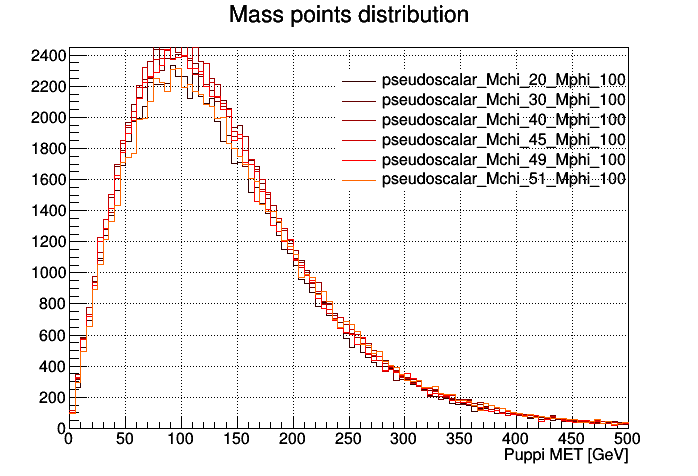
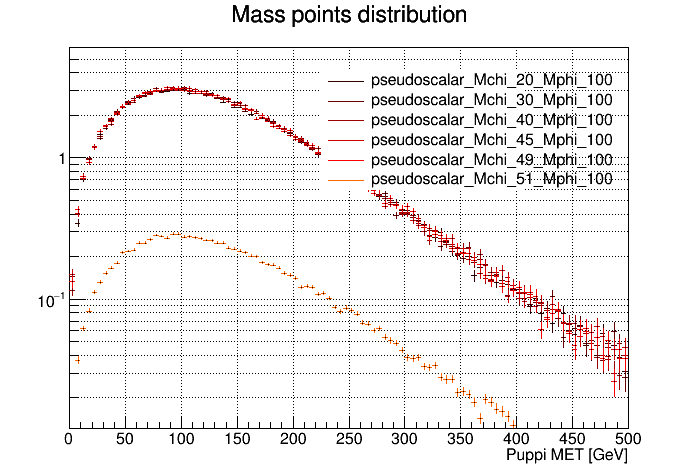
First mT attempt

diff --git a/neuralNetwork/createTrees.py b/neuralNetwork/createTrees.py
@@ -173,6 +173,8 @@ def createTree(inputDir, outputDir, baseDir, filename, firstEvent, lastEvent, sp
 
     totalET = array("f", [0.])
     outputTree.Branch("totalET", totalET, "totalET/F")
+    massT = array("f", [0.]) #New variable by Pablo
+    outputTree.Branch("massT", massT, "massT/F")
     costhetall = array("f", [0.])
     outputTree.Branch("costhetall", costhetall, "costhetall/F")
     costhetal1b1 = array("f", [0.])
@@ -427,6 +429,20 @@ def createTree(inputDir, outputDir, baseDir, filename, firstEvent, lastEvent, sp
         #Variables bases on DESY's AN2016-240-v10
         if recoWorked:
             totalET[0] = ev.PuppiMET_sumEt + bestReconstructedKinematic.Tb1.Pt() + bestReconstructedKinematic.Tb2.Pt() + bestReconstructedKinematic.Tlep1.Pt() + bestReconstructedKinematic.Tlep2.Pt()
+
+            #massT is defined as the mass of the phi component (eta = 0) of the TLorentzVector of the event
+            TMETEta0 = bestReconstructedKinematic.TMET
+            TMETEta0.SetPtEtaPhiE(TMETEta0.Pt(), 0, TMETEta0.Phi(), TMETEta0.E())
+            Tb1Eta0 = bestReconstructedKinematic.Tb1
+            Tb1Eta0.SetPtEtaPhiE(Tb1Eta0.Pt(), 0, Tb1Eta0.Phi(), Tb1Eta0.E())
+            Tb2Eta0 = bestReconstructedKinematic.Tb2
+            Tb2Eta0.SetPtEtaPhiE(Tb2Eta0.Pt(), 0, Tb2Eta0.Phi(), Tb2Eta0.E())
+            Tlep1Eta0 = bestReconstructedKinematic.Tlep1
+            Tlep1Eta0.SetPtEtaPhiE(Tlep1Eta0.Pt(), 0, Tlep1Eta0.Phi(), Tlep1Eta0.E())
+            Tlep2Eta0 = bestReconstructedKinematic.Tlep2
+            Tlep2Eta0.SetPtEtaPhiE(Tlep2Eta0.Pt(), 0, Tlep2Eta0.Phi(), Tlep2Eta0.E())
+            massT[0] = (TMETEta0 + Tb1Eta0 + Tb2Eta0 + Tlep1Eta0 + Tlep2Eta0).M()
+
             costhetall[0] = bestReconstructedKinematic.Tlep1.CosTheta() * bestReconstructedKinematic.Tlep2.CosTheta()
             costhetal1b1[0] = bestReconstructedKinematic.Tlep1.CosTheta() * bestReconstructedKinematic.Tb1.CosTheta()
             costhetal2b2[0] = bestReconstructedKinematic.Tlep2.CosTheta() * bestReconstructedKinematic.Tb2.CosTheta()
@@ -481,6 +497,20 @@ def createTree(inputDir, outputDir, baseDir, filename, firstEvent, lastEvent, sp
 
         else: #TOCHECK: put default value instead?
             totalET[0] = ev.PuppiMET_sumEt + eventKinematic.Tb1.Pt() + eventKinematic.Tb2.Pt() + eventKinematic.Tlep1.Pt() + eventKinematic.Tlep2.Pt()
+
+            #massT is defined as the mass of the phi component (eta = 0) of the TLorentzVector of the event
+            TMETEta0 = eventKinematic.TMET
+            TMETEta0.SetPtEtaPhiE(TMETEta0.Pt(), 0, TMETEta0.Phi(), TMETEta0.E())
+            Tb1Eta0 = eventKinematic.Tb1
+            Tb1Eta0.SetPtEtaPhiE(Tb1Eta0.Pt(), 0, Tb1Eta0.Phi(), Tb1Eta0.E())
+            Tb2Eta0 = eventKinematic.Tb2
+            Tb2Eta0.SetPtEtaPhiE(Tb2Eta0.Pt(), 0, Tb2Eta0.Phi(), Tb2Eta0.E())
+            Tlep1Eta0 = eventKinematic.Tlep1
+            Tlep1Eta0.SetPtEtaPhiE(Tlep1Eta0.Pt(), 0, Tlep1Eta0.Phi(), Tlep1Eta0.E())
+            Tlep2Eta0 = eventKinematic.Tlep2
+            Tlep2Eta0.SetPtEtaPhiE(Tlep2Eta0.Pt(), 0, Tlep2Eta0.Phi(), Tlep2Eta0.E())
+            massT[0] = (TMETEta0 + Tb1Eta0 + Tb2Eta0 + Tlep1Eta0 + Tlep2Eta0).M()
+
             costhetall[0] = -99.0
             costhetal1b1[0] = -99.0
             costhetal2b2[0] = -99.0

diff --git a/scripts/plotSignals.py b/scripts/plotSignals.py
@@ -16,12 +16,13 @@ signalDir = "/eos/user/c/cprieels/work/SignalsPostProcessing/Pablo/Autumn18_102X
 category = "scalar"
 trailer = "*"
 #cuts = "mt2ll > 100 && (Lepton_pdgId[0] * Lepton_pdgId[1] == -11*13 || (mll < 76 || mll > 106))"
-cuts = "baseW * 1"
+cuts = "baseW * genWeight"
 
-normalization = False
+normalization = True
 addBackground = False #Plot the ttbar on this plot as wel?
 logy = False
 
+"""
 files = [{'file': 'TTbarDMJets_Dilepton_' + category + '_LO_Mchi_1_Mphi_50'+ trailer +'.root', 'massPoint': category + '_Mchi_1_Mphi_50'},
          {'file': 'TTbarDMJets_Dilepton_' + category + '_LO_Mchi_1_Mphi_100'+ trailer +'.root', 'massPoint': category + '_Mchi_1_Mphi_100'},
          {'file': 'TTbarDMJets_Dilepton_' + category + '_LO_Mchi_1_Mphi_150'+ trailer +'.root', 'massPoint': category + '_Mchi_1_Mphi_150'},
@@ -32,7 +33,6 @@ files = [{'file': 'TTbarDMJets_Dilepton_' + category + '_LO_Mchi_1_Mphi_50'+ tra
          {'file': 'TTbarDMJets_Dilepton_' + category + '_LO_Mchi_1_Mphi_400'+ trailer +'.root', 'massPoint': category + '_Mchi_1_Mphi_400'},
          {'file': 'TTbarDMJets_Dilepton_' + category + '_LO_Mchi_1_Mphi_450'+ trailer +'.root', 'massPoint': category + '_Mchi_1_Mphi_450'},
          {'file': 'TTbarDMJets_Dilepton_' + category + '_LO_Mchi_1_Mphi_500'+ trailer +'.root', 'massPoint': category + '_Mchi_1_Mphi_500'}]
-
 """
 files = [{'file': 'TTbarDMJets_Dilepton_' + category + '_LO_Mchi_20_Mphi_100'+ trailer +'.root', 'massPoint': category + '_Mchi_20_Mphi_100'},
          {'file': 'TTbarDMJets_Dilepton_' + category + '_LO_Mchi_30_Mphi_100'+ trailer +'.root', 'massPoint': category + '_Mchi_30_Mphi_100'},
@@ -41,8 +41,7 @@ files = [{'file': 'TTbarDMJets_Dilepton_' + category + '_LO_Mchi_20_Mphi_100'+ t
          {'file': 'TTbarDMJets_Dilepton_' + category + '_LO_Mchi_49_Mphi_100'+ trailer +'.root', 'massPoint': category + '_Mchi_49_Mphi_100'},
          {'file': 'TTbarDMJets_Dilepton_' + category + '_LO_Mchi_51_Mphi_100'+ trailer +'.root', 'massPoint': category + '_Mchi_51_Mphi_100'}]
          #{'file': 'TTbarDMJets_Dilepton_' + category + '_LO_Mchi_55_Mphi_100'+ trailer +'.root', 'massPoint': category + '_Mchi_55_Mphi_100'}] #Not available for pseudoscalar
-
-
+"""
 files = [{'file': 'DMscalar_Dilepton_top_tWChan_Mchi1_Mphi10__part' + trailer + '.root', 'massPoint': 'tWChan_scalar_Mchi1_Mphi10'},
          {'file': 'DMscalar_Dilepton_top_tWChan_Mchi1_Mphi20__part' + trailer + '.root', 'massPoint': 'tWChan_scalar_Mchi1_Mphi20'},
          {'file': 'DMscalar_Dilepton_top_tWChan_Mchi1_Mphi50__part' + trailer + '.root', 'massPoint': 'tWChan_scalar_Mchi1_Mphi50'},
